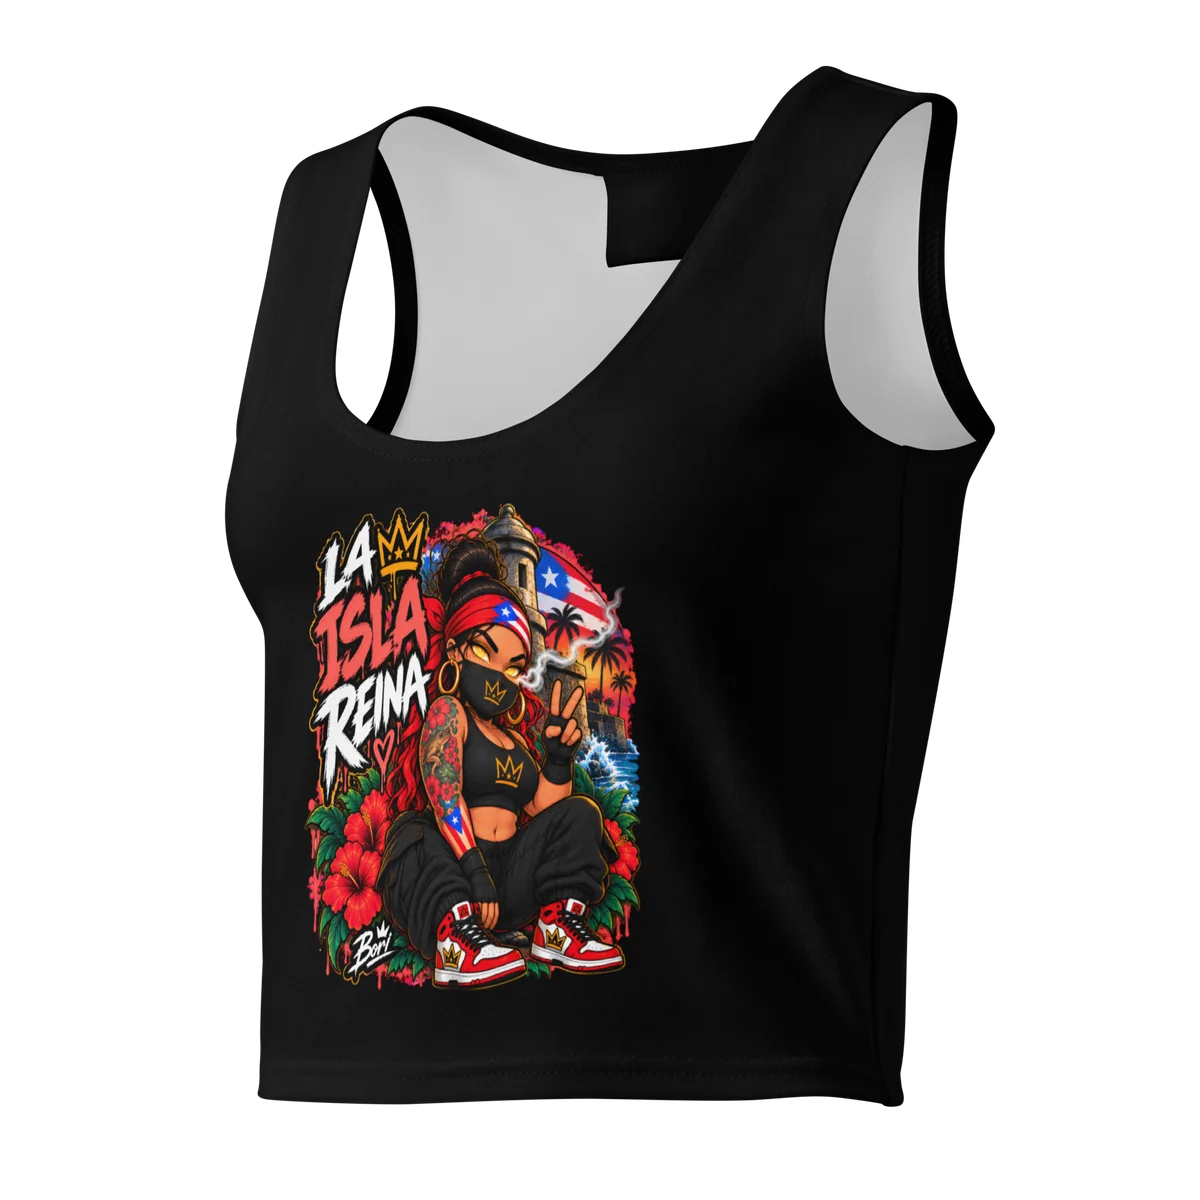
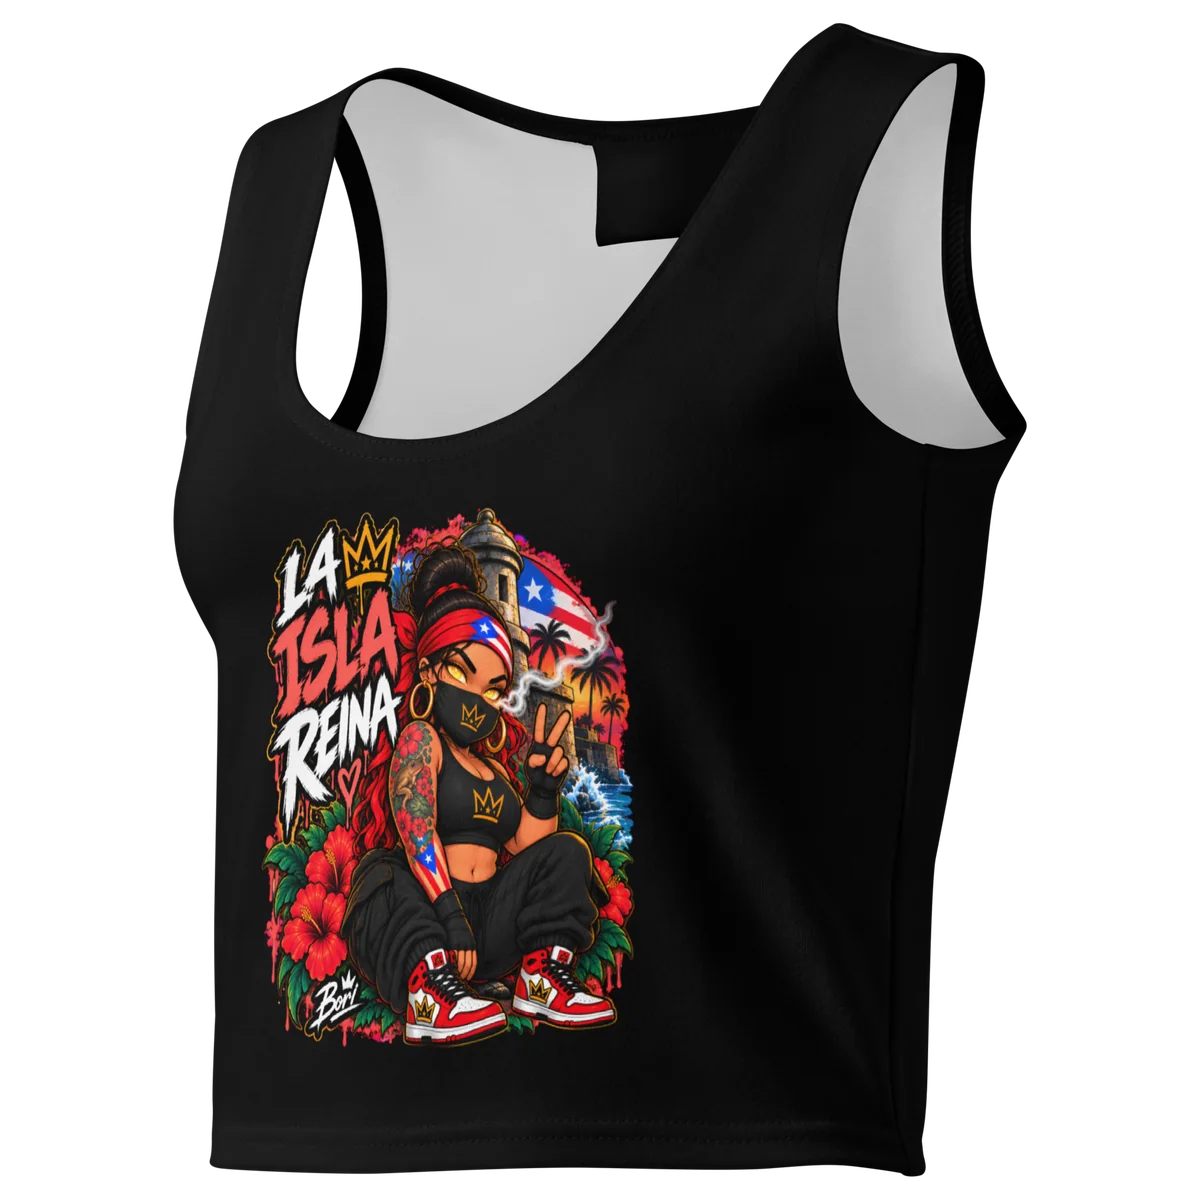
La Isla Reina: swap in real Printful mockups for Moto, Piña Colada, Waterfall; tight-crop all four mockups; add Printful template IDs

Changed region(s): [[0.1233, 0.0, 0.8633, 0.9867], [0.6783, 0.185, 0.7708, 0.37]]

diff --git a/src/lib/catalog.ts b/src/lib/catalog.ts
@@ -459,12 +459,13 @@ export const products: Product[] = [
     description:
       'Red bike, PR flag sleeve, crown sneakers on the pegs — riding the El Morro wall at sunset. Boricua and built for the road. Women\'s cotton crop top in black.',
     price: 35.00,
-    images: [asset('/images/la-isla-reina-moto-crop-art.webp')],
+    images: [asset('/images/la-isla-reina-moto-crop-front.webp')],
     colors: ['Black'],
     colorLabel: 'Black',
     sizes: [...CROP_SIZES],
     category: 'crop-top',
     tags: ['la-isla-reina', 'boricua', 'moto', 'el-morro', 'crown'],
+    printfulTemplateId: '108272681',
     collections: ['la-isla-reina'],
   },
   {
@@ -474,12 +475,13 @@ export const products: Product[] = [
     description:
       'Piña colada in hand, posted up on a PR flag cooler in crown sneakers — island time, queen energy. Women\'s cotton crop top in black.',
     price: 35.00,
-    images: [asset('/images/la-isla-reina-pina-colada-crop-art.webp')],
+    images: [asset('/images/la-isla-reina-pina-colada-crop-front.webp')],
     colors: ['Black'],
     colorLabel: 'Black',
     sizes: [...CROP_SIZES],
     category: 'crop-top',
     tags: ['la-isla-reina', 'boricua', 'pina-colada', 'pr-flag', 'crown'],
+    printfulTemplateId: '108272827',
     collections: ['la-isla-reina'],
   },
   {
@@ -489,12 +491,13 @@ export const products: Product[] = [
     description:
       'Rainforest waterfall, El Morro garita in the mist, PR flag on her sleeve. Boricua paradise with a crown on top. Women\'s cotton crop top in black.',
     price: 35.00,
-    images: [asset('/images/la-isla-reina-waterfall-crop-art.webp')],
+    images: [asset('/images/la-isla-reina-waterfall-crop-front.webp')],
     colors: ['Black'],
     colorLabel: 'Black',
     sizes: [...CROP_SIZES],
     category: 'crop-top',
     tags: ['la-isla-reina', 'boricua', 'waterfall', 'el-morro', 'crown'],
+    printfulTemplateId: '108273015',
     collections: ['la-isla-reina'],
   },
 

diff --git a/scripts/make_la_isla_reina_images.py b/scripts/make_la_isla_reina_images.py
@@ -26,6 +26,15 @@ for base, (mock, flat) in ITEMS.items():
     else:
         src, out_name = os.path.join(FLAT, flat), f'{base}-art.webp'
     im = Image.open(src)
+    if src == mpath and im.mode == 'RGBA':
+        # Tight-crop the transparent mockup to a square around the garment
+        # (small padding) so it fills the square product cards.
+        l, t, r, b = im.getchannel('A').getbbox()
+        side = int(max(r - l, b - t) * 1.04)
+        cx, cy = (l + r) // 2, (t + b) // 2
+        sq = Image.new('RGBA', (side, side), (0, 0, 0, 0))
+        sq.paste(im.crop((l, t, r, b)), (side // 2 - (cx - l), side // 2 - (cy - t)))
+        im = sq
     im.thumbnail((1200, 1200), Image.LANCZOS)
     dst = os.path.join(OUT, out_name)
     im.save(dst, 'WEBP', quality=85, method=6)
